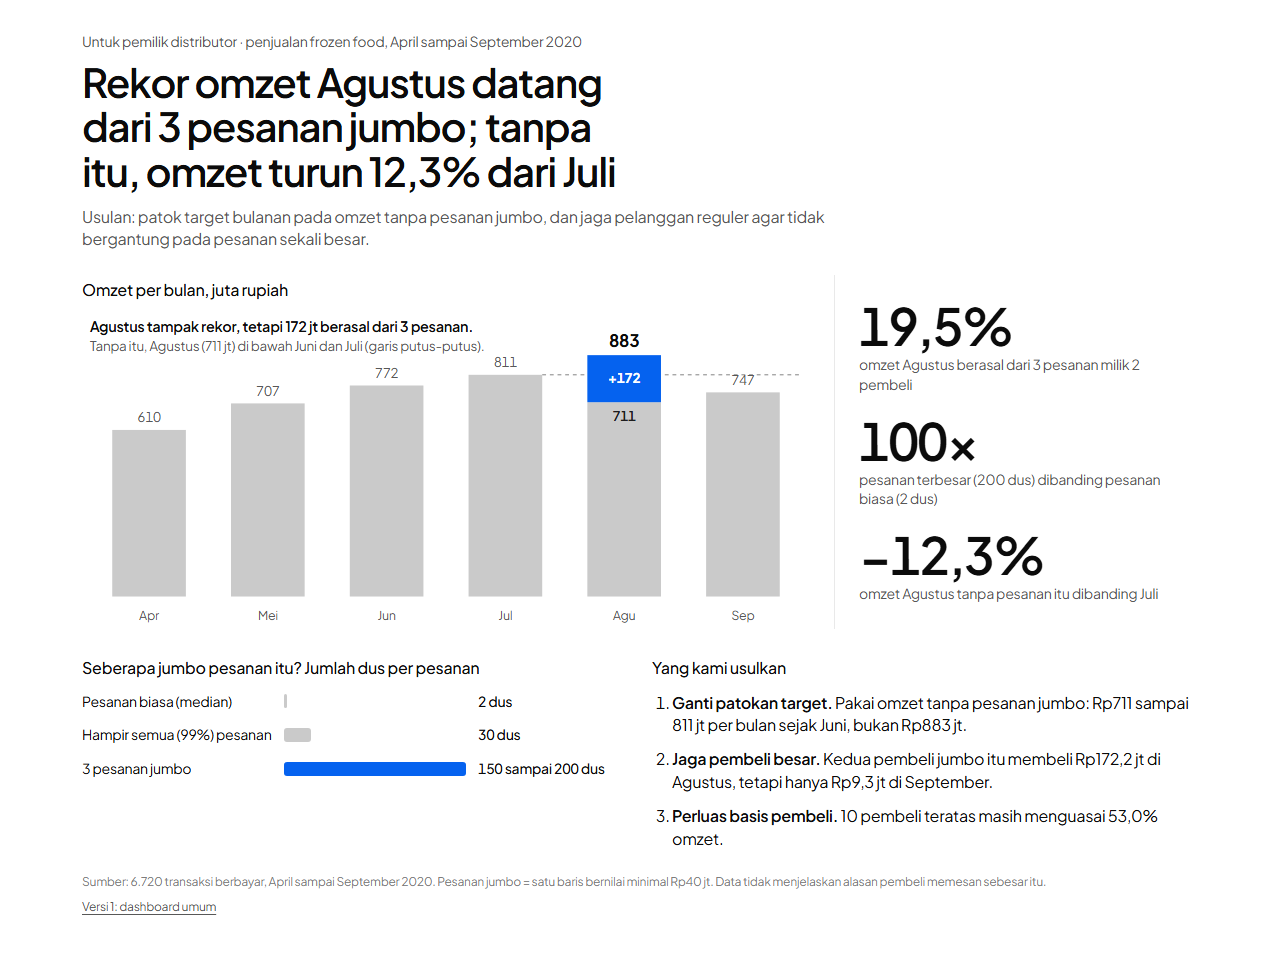
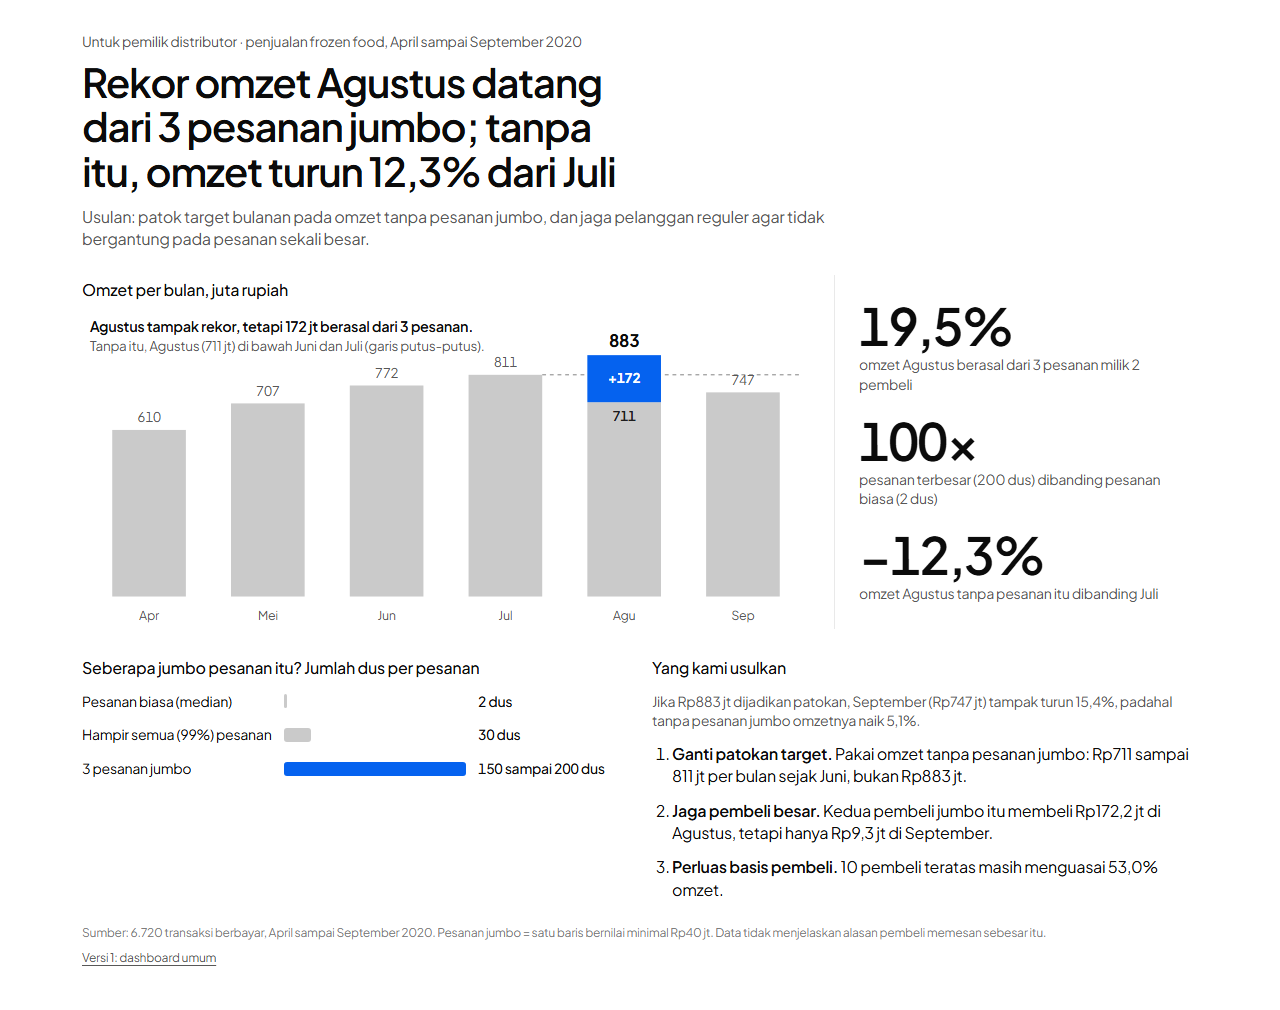
Story page: add the stakes sentence and re-export the PNG

diff --git a/frozen-food/dashboard-web/src/StoryPage.tsx b/frozen-food/dashboard-web/src/StoryPage.tsx
@@ -91,6 +91,9 @@ export function StoryPage() {
   const s = useStory();
   const total = s.aug.base + s.aug.jumbo;
   const drop = (1 - s.aug.base / s.jul.base) * 100;
+  const sep = s.months.find(x => x.m === 9)!;
+  const sepDrop = (1 - (sep.base + sep.jumbo) / total) * 100; // September terlihat turun jika Agustus jadi patokan
+  const sepUp = (sep.base / s.aug.base - 1) * 100; // tetapi tanpa pesanan jumbo justru naik
   const baseSince = s.months.filter(x => x.m >= 6).map(x => x.base);
   const sizes = [
     { key: "median", label: "Pesanan biasa (median)", v: s.medianDus, text: `${int(s.medianDus)} dus` },
@@ -132,6 +135,7 @@ export function StoryPage() {
         </section>
         <section className={styles.card} aria-label="Usulan">
           <h2 className={styles.h2}>Yang kami usulkan</h2>
+          <p className={styles.stake}>Jika Rp{int(total)} jt dijadikan patokan, September (Rp{int(sep.base + sep.jumbo)} jt) tampak turun {one(sepDrop)}%, padahal tanpa pesanan jumbo omzetnya naik {one(sepUp)}%.</p>
           <ol className={styles.actions}>
             <li><b>Ganti patokan target.</b> Pakai omzet tanpa pesanan jumbo: Rp{int(Math.min(...baseSince))} sampai {int(Math.max(...baseSince))} jt per bulan sejak Juni, bukan Rp{int(total)} jt.</li>
             <li><b>Jaga pembeli besar.</b> Kedua pembeli jumbo itu membeli {rp(s.buyersAug)} di Agustus, tetapi hanya {rp(s.buyersSep)} di September.</li>

diff --git a/frozen-food/dashboard-web/src/StoryPage.module.css b/frozen-food/dashboard-web/src/StoryPage.module.css
@@ -35,6 +35,7 @@
 .fill { background: var(--neutral-5); }
 .fillHi { background: var(--series-1); }
 
+.stake { margin: 0 0 12px; color: var(--text-secondary); font-size: var(--text-sm); }
 .actions { margin: 0; padding-left: 20px; display: grid; gap: 12px; font-size: var(--text-base); }
 .actions b { font-weight: 600; }
 
